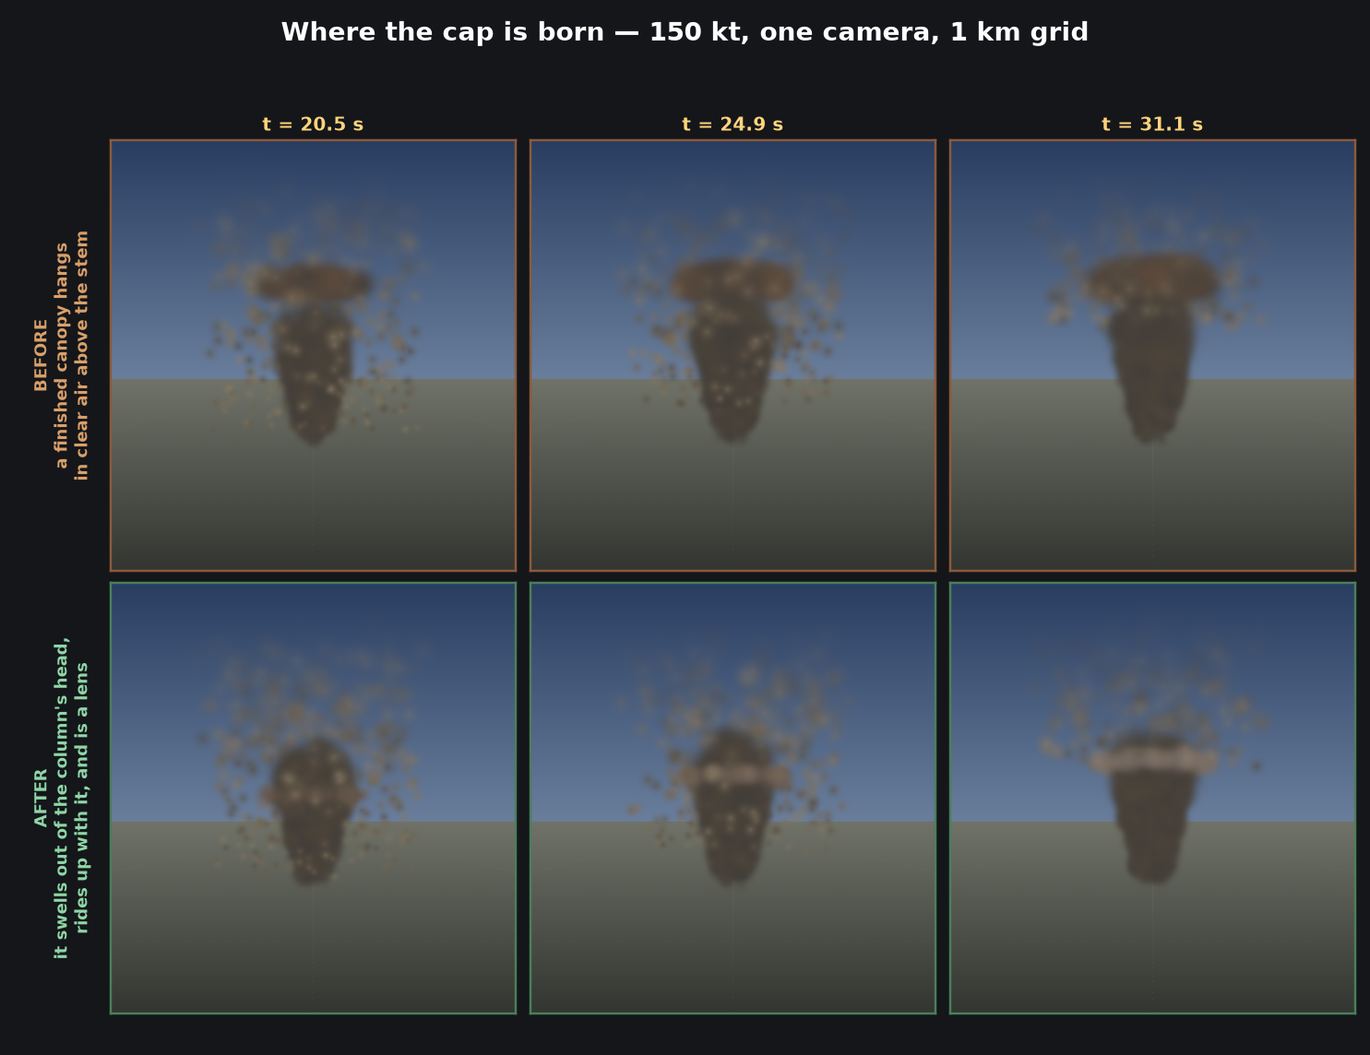
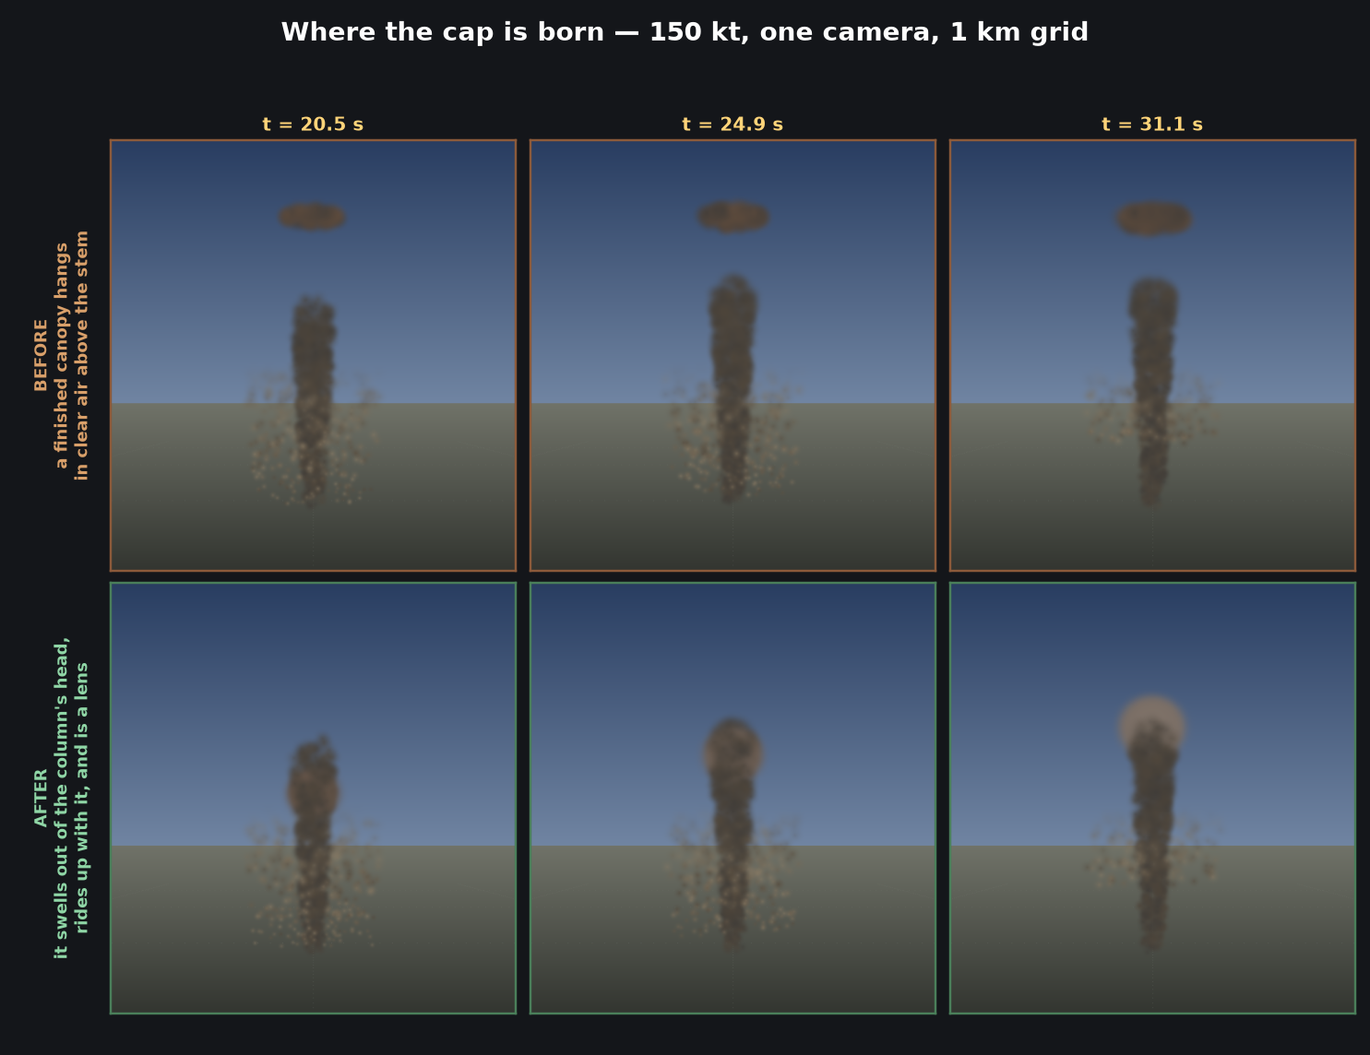
fix: scale the cloud with one number, so it is a mushroom again
The first report from a build that actually contained this work was that it did
not look like a mushroom. It did not, and the cause was here rather than in the
build: answering "the cloud is too tall" by squashing the height on its own,
twice, while the width kept a scale of its own.

At 150 kt that left a column 459 m across and 375 m tall - a stem wider than it
is tall, which is not a stem - under a canopy 1436 m wide on a 751 m cloud,
against the 0.54 the figures give for width over height. No arrangement of
particles reads as a mushroom from there.

CloudScale now moves cap, stem and height together, and CloudHeightScale is
gone. At 0.06 a 150 kt cloud is a 138 m column standing 392 m under a canopy
431 m wide and 392 m deep - 1.10 times wider than deep, which is what the 1945
photographs show - and 0.55 as wide as it is tall against the figures' 0.54. The
height ceiling stays, with its knee raised to 700 m so that everything to about
a megaton is drawn in proportion and the ceiling is only the guarantee that no
yield can put its canopy off the top of the screen.

The fireball's scale comes down with it, to hold the third of the canopy's width
that keeps it from being lost under the cloud.

Two tests pin the silhouette: the column is taller than it is wide, and the
drawn width-to-height ratio matches the one the figures give.

Claude-Session: https://claude.ai/code/session_016wLH3mDvfnwTvpbji9E1o4

Changed region(s): [[0.062, 0.1836, 0.9912, 0.4283], [0.062, 0.6425, 0.9912, 0.8566]]

diff --git a/src/MissileDisaster/Core/NuclearCloudDisplay.cs b/src/MissileDisaster/Core/NuclearCloudDisplay.cs
@@ -47,18 +47,22 @@ namespace MissileDisaster.Core
         /// Skylines is played at the player sees a column disappearing off the top of the screen
         /// rather than a mushroom.
         ///
-        /// It is applied to the cloud - cap, stem and height alike - so every proportion the
-        /// model was checked against the photographs for survives it unchanged.
+        /// It is applied to the cloud - cap, stem and height alike, one number for all three - so
+        /// every proportion the model was checked against the photographs for survives it. That
+        /// is not a nicety. Height is what runs off the top of a screen, so the temptation is to
+        /// squash the height alone; doing exactly that is what turned the effect into a pancake
+        /// on a lump, with a 150 kt column 459 m across and 375 m tall. A stem wider than it is
+        /// tall is not a stem, and no arrangement of particles reads as a mushroom from there.
+        /// If a cloud has to be shorter, this is the number to lower - it takes the width with
+        /// it, which is the point.
         ///
-        /// This is the number to change to make clouds larger or smaller across the board. At
-        /// 0.20 a 150 kt cloud stands 2.6 km, which fits in frame from a few kilometres back at
-        /// the height the game is normally played at; 0.30 is a taller cloud that starts to run
-        /// off the top of the screen.
+        /// At 0.06 a 150 kt cloud stands 783 m over a 431 m canopy, which is the shape the
+        /// figures give it and fits in frame at the zoom the game is played at.
         /// </summary>
-        public const float CloudScale = 0.20f;
+        public const float CloudScale = 0.06f;
 
         /// <summary>
-        /// The fireball gets its own, larger scale - two and a half times the cloud's.
+        /// The fireball gets its own, larger scale - nearly three times the cloud's.
         ///
         /// It is the smallest part of the effect and the only part judged against the buildings
         /// around it rather than against the cloud, so shrinking it in step with a cloud brought
@@ -68,7 +72,7 @@ namespace MissileDisaster.Core
         /// its share puts it at about a third of the canopy's width at every yield, against the
         /// tenth to a seventh it really is.
         /// </summary>
-        public const float FireballScale = 0.50f;
+        public const float FireballScale = 0.16f;
 
         /// <summary>
         /// The altitude the top of the screen is, near enough, at the zoom the game is played at.
@@ -82,23 +86,14 @@ namespace MissileDisaster.Core
         public const float ScreenTopAltitude = 1000f;
 
         /// <summary>
-        /// A further squash applied to the cloud's height alone, on top of CloudScale, and then
-        /// a soft ceiling at ScreenTopAltitude.
-        ///
-        /// Even at a fifth of its real size a cloud is a tall thing - the figures make one taller
-        /// than it is wide at every yield below a megaton, because that is what a real one is -
-        /// and height is what runs off the top of a screen. The squash brings the whole range
-        /// down; the ceiling then guarantees it, so that no yield, however absurd, can put its
-        /// canopy where the player cannot see it. Between the knee and the ceiling the height
-        /// still grows with the yield, so a Tsar Bomba still stands twice a Little Boy.
-        ///
-        /// This is the one place where a proportion checked against the photographs is knowingly
-        /// broken: the canopy comes out several times flatter than the real thing, because its
-        /// depth is measured down from the cloud top and the top is what moved. Set the squash to
-        /// 1 and the ceiling out of the way to have the cloud back in proportion.
+        /// Where the soft ceiling on the drawn height starts to bite. It sits high enough that
+        /// everything up to about a megaton is drawn in proportion and the ceiling is only a
+        /// safety net - a guarantee that no yield, however absurd, can put its canopy where the
+        /// player cannot see it. Above it the height is compressed while the width is not, so
+        /// the very largest clouds do come out wider than their share; that is the price of the
+        /// guarantee, and it is paid only by weapons nobody has ever built but Tsar Bomba.
         /// </summary>
-        public const float CloudHeightScale = 0.35f;
-        public const float CloudTopDrawnKnee = 400f;
+        public const float CloudTopDrawnKnee = 700f;
 
         // The tropopause: the lid the canopy spreads out under, in real metres, before the
         // scale. Through the troposphere the air gets colder with height, so a fireball that
@@ -172,7 +167,7 @@ namespace MissileDisaster.Core
             d.FireballSeconds = EffectCeiling.Soft(NuclearCloud.FireballSeconds(kt),
                 FireballSecondsMin, FireballSecondsKnee, FireballSecondsCeiling);
             d.CapRadius = capRadius * CloudScale;
-            d.CloudTop = EffectCeiling.Soft(cloudTop * CloudScale * CloudHeightScale,
+            d.CloudTop = EffectCeiling.Soft(cloudTop * CloudScale,
                 CloudTopDrawnKnee, ScreenTopAltitude);
             d.CapBase = d.CloudTop * baseFraction;
             d.CapDepth = d.CloudTop - d.CapBase;

diff --git a/tests/MissileDisaster.Core.Tests/NuclearCloudDisplayTests.cs b/tests/MissileDisaster.Core.Tests/NuclearCloudDisplayTests.cs
@@ -115,6 +115,34 @@ public class NuclearCloudDisplayTests
     }
 
     [Fact]
+    public void The_column_is_taller_than_it_is_wide()
+    {
+        // A stem wider than it is tall is not a stem, and no arrangement of particles reads as a
+        // mushroom from there. This is the check that squashing the height on its own broke: it
+        // left a 150 kt column 459 m across and 375 m tall, under a canopy three times too wide.
+        foreach (float kt in new[] { 15f, 150f, 1200f })
+        {
+            NuclearCloudDimensions d = NuclearCloudDisplay.For(kt);
+            Assert.True(d.CapBase > d.StemRadius * 2f * 1.3f,
+                $"{kt} kt: column {d.StemRadius * 2f:F0} m wide, {d.CapBase:F0} m tall");
+        }
+    }
+
+    [Fact]
+    public void The_cloud_keeps_the_proportions_the_figures_give_it()
+    {
+        // Width and height come down by one number, so the drawn shape is the real shape.
+        // Scaling them separately is what turned the effect into a pancake on a lump.
+        foreach (float kt in new[] { 15f, 22f, 150f })
+        {
+            NuclearCloudDimensions d = NuclearCloudDisplay.For(kt);
+            float drawn = d.CapRadius * 2f / d.CloudTop;
+            float real = NuclearCloud.CloudRadius(kt) * 2f / NuclearCloud.CloudTop(kt);
+            Assert.InRange(drawn / real, 0.9f, 1.15f);
+        }
+    }
+
+    [Fact]
     public void No_cloud_is_ever_drawn_above_the_top_of_the_screen()
     {
         // The height is what runs off the screen, so it is the one dimension with a hard

diff --git a/tools/effect-preview/fxlib.py b/tools/effect-preview/fxlib.py
@@ -46,11 +46,10 @@ def hard(v, lo, hi): return max(lo, min(hi, v))
 
 # ------------------------------------------------- Core/NuclearCloudDisplay.cs (new)
 
-CLOUD_SCALE = 0.20      # NuclearCloudDisplay.CloudScale - playability, not physics
-FIREBALL_SCALE = 0.50   # the fireball comes down less far than the cloud around it
-HEIGHT_SCALE = 0.35     # a further squash on the height alone
+CLOUD_SCALE = 0.06      # NuclearCloudDisplay.CloudScale - one number for width and height alike
+FIREBALL_SCALE = 0.16   # the fireball comes down less far than the cloud around it
 SCREEN_TOP = 1000.0     # ScreenTopAltitude - nothing is drawn above the top of the screen
-TOP_KNEE = 400.0
+TOP_KNEE = 700.0
 TROPOPAUSE = 11000.0    # real metres, before the scale
 NEW = dict(fb=(25.0, 3000.0, 7000.0), fbs=(0.8, 12.0, 20.0), cap=(200.0, 8000.0, 26000.0),
            top=(800.0, 12000.0, 30000.0), rise=(12.0, 40.0, 60.0))
@@ -73,7 +72,7 @@ def dimensions(kt, ceilings="new"):
         d["fireball"] *= FIREBALL_SCALE
         d["cap"] *= CLOUD_SCALE
         base_fraction = base / d["top"]
-        d["top"] = soft(d["top"] * CLOUD_SCALE * HEIGHT_SCALE, TOP_KNEE, SCREEN_TOP)
+        d["top"] = soft(d["top"] * CLOUD_SCALE, TOP_KNEE, SCREEN_TOP)
         d["base"] = d["top"] * base_fraction
     else:
         d = dict(

diff --git a/docs/HANDOVER.md b/docs/HANDOVER.md
@@ -1,45 +1,40 @@
 # Handover — nuclear effect work
 
-Branch `claude/mushroom-cloud-explosion-effects-anxonz`, 13 commits on top of `master` (`c8b7822`).
+Branch `claude/mushroom-cloud-explosion-effects-anxonz`, on top of `master` (`c8b7822`).
 Everything described here is pushed. Nothing in this work exists on `master`.
 
-## Read this first: the build in the game is not this build
+## The one thing this work got wrong, and how it was found
 
-The game log from the last session showed the mod loading correctly —
+For four rounds the game was running a DLL that did not contain the changes, so the reports coming
+back were about code that had never loaded. The log settled it: the mod was loading fine from the
+local Addons folder, but the `[MissileDisaster] build check` line that `Mod.OnEnabled` writes
+unconditionally as its first statement was absent.
 
-```
-No source files found: MissileDisaster            <- normal. A DLL mod has no .cs sources
-Loading ...\Addons\Mods\MissileDisaster\MissileDisaster.dll
-Assembly MissileDisaster, Version=1.0.0.0 loaded.
-```
+Once a correct build finally ran, the first real report was that it did not look like a mushroom.
+It did not, and the reason was in this work rather than in the build: the height had been squashed
+on its own, twice, to answer "the cloud is too tall". Width and height had separate scales, and a
+150 kt column came out **459 m across and 375 m tall** under a canopy three and a half times too
+wide for it. A stem wider than it is tall is not a stem.
 
-— but **no `[MissileDisaster] build check - ...` line**, which `Mod.OnEnabled` writes as its first
-statement, unconditionally. The DLL the game is running therefore predates `e85d401`.
+The fix was to collapse the two scales into one. `CloudScale` now moves cap, stem and height
+together, so the drawn shape is the shape the figures give it, and the height ceiling is a
+guarantee rather than a shaping tool. **If a cloud has to be smaller, lower `CloudScale` and let
+it take the width with it.** Two tests now pin the silhouette so this cannot come back.
 
-That matters because four rounds of tuning were done on reports from a build that did not contain
-them. Settle this before judging anything:
+## Checking which build is running
 
-```powershell
-cd <repo>
-git fetch origin
-git checkout claude/mushroom-cloud-explosion-effects-anxonz
-git pull
-git log --oneline -1          # expect f55952c or later
-
-# with Cities: Skylines fully closed - the DLL is locked while it runs
-.\build.ps1
-```
-
-Then in game: **Options → Mods → Missile Disaster → Build check**. Two lines:
+**Options → Mods → Missile Disaster → Build check**:
 
 ```
-150 kt draws: cloud top 751 m, cap 1440 m wide, fireball 408 m across, rise 31.1 s, screen top 1000 m
+150 kt draws: cloud top 781 m, cap 431 m wide, fireball 131 m across, rise 31.1 s, screen top 1000 m
 Loaded from: C:\...\Addons\Mods\MissileDisaster
 ```
 
-The numbers are computed by the running code, so they are a fingerprint: a cloud top near **751 m**
-is this build, **13245 m** is the original, and **no Build check group at all** is a DLL older than
-`f55952c`. The path line settles the case where a Workshop subscription shadows a local build.
+The numbers are computed by the running code, so they are a fingerprint: a cloud top near **781 m**
+is this build, **13245 m** is the original, and **no Build check group at all** is an older DLL. The
+path line settles the case where a Workshop subscription shadows a local build.
+
+Rebuild with Cities: Skylines fully closed — the DLL is locked while it runs.
 
 ### One more thing to rule out
 
@@ -54,10 +49,9 @@ that are taste rather than physics, and they are where to go for "bigger", "smal
 
 | constant | now | what it does |
 |---|---|---|
-| `CloudScale` | 0.20 | the whole cloud against its real size. Raise for a bigger strike |
-| `CloudHeightScale` | 0.35 | a further squash on the height alone, before the ceiling |
-| `ScreenTopAltitude` | 1000 | hard bound on the drawn height. **Also `ModConfig.MaxBurstAltitude`** — lowering it lowers the airburst ceiling too |
-| `FireballScale` | 0.50 | the fireball, which comes down less far than the cloud so it is not lost under it |
+| `CloudScale` | 0.06 | the whole cloud against its real size — **width and height alike**. Raise for a bigger strike, lower for a smaller one. Do not scale height on its own: that is what broke the mushroom shape once already |
+| `ScreenTopAltitude` | 1000 | soft bound on the drawn height, knee at 700. **Also `ModConfig.MaxBurstAltitude`** — lowering it lowers the airburst ceiling too |
+| `FireballScale` | 0.16 | the fireball, which comes down less far than the cloud so it is not lost under it |
 | `RiseCompression` | 12 | real seconds per drawn second. Lower is slower |
 | `CapLifetime*` in `NuclearMushroomFx` | 35–60 s | how long the canopy stands |
 
@@ -65,23 +59,24 @@ What these currently produce:
 
 | | cloud top | cap width | fireball | whole shot |
 |---|---|---|---|---|
-| Little Boy 15 kt | 461 m | 0.61 km | 162 m | 45 s |
-| 150 kt baseline | 751 m | 1.44 km | 408 m | 67 s |
-| B83 1.2 Mt | 869 m | 3.78 km | 938 m | 87 s |
-| Tsar Bomba 50 Mt | 952 m | 10.4 km | 4013 m | 93 s |
+| Little Boy 15 kt | 398 m | 184 m | 52 m | 45 s |
+| 150 kt baseline | 781 m | 431 m | 131 m | 67 s |
+| B83 1.2 Mt | 927 m | 1133 m | 300 m | 87 s |
+| Tsar Bomba 50 Mt | 987 m | 3119 m | 1284 m | 93 s |
 
-If the height is still wrong once a correct build is running, `ScreenTopAltitude` is the lever — but
-note it is shared with the airburst ceiling, so decouple them first if only the cloud should move.
+If the size is still wrong, **`CloudScale` is the lever** — it moves width and height together and
+so cannot break the silhouette. `ScreenTopAltitude` is a guarantee, not a shaping tool, and it is
+shared with the airburst ceiling; decouple them first if only the cloud should move.
 
 ## Verification: what is proven and what is not
 
 | | status |
 |---|---|
-| `Core/**` logic | **232 xUnit tests pass.** `dotnet test tests/MissileDisaster.Core.Tests/` |
+| `Core/**` logic | **234 xUnit tests pass.** `dotnet test tests/MissileDisaster.Core.Tests/` |
 | effect code compiles | **passes.** `dotnet build tools/compile-check/CompileCheck.csproj` |
 | `ExplosionFx`, `ImpactResolver`, `ModConfig`, `Mod` changes | inspected only — not in the compile check, which does not stub the Colossal API |
 | the members exist in Unity 5.6 | **not verified.** See below |
-| how any of it looks in game | **not verified.** Never ran |
+| how it looks in game | **partly.** One session with a correct build, which found the silhouette bug above. Everything since is unverified again |
 
 Three Unity members are used that were not used before this branch. If the real build fails, suspect
 these first:
@@ -119,10 +114,11 @@ narrative.
 4. **`de19d69`** — the canopy's base is the tropopause, or half the cloud height below it. That
    reproduces Ivy Mike's and Castle Bravo's measured cap bases and is why a 20 kt cap is a ball and
    a megaton cap a sheet.
-5. **`18fb3d4`, `bbce362`, `57cfbff`** — playability: the cloud brought down to a fifth, the height
-   squashed and then bounded at the altitude the mod already calls the top of the screen; the
-   fireball's own radius budget fixed and given a larger scale; the whole shot stretched from 26 s
-   to about a minute.
+5. **`18fb3d4`, `bbce362`, `57cfbff`** — playability: the cloud brought down in size and its height
+   bounded at the altitude the mod already calls the top of the screen; the fireball's own radius
+   budget fixed and given a scale of its own; the whole shot stretched from 26 s to about a minute.
+   The height was squashed independently of the width here, which is the mistake the next commit
+   undoes.
 6. **`2c35cfc`, `e85d401`, `f55952c`** — the tooling: a compile check that works without the game,
    and the build fingerprint in the log and on the options screen.
 
@@ -134,8 +130,7 @@ they were checked against.
 - **No low-level layer.** Both 1945 photographs show a broad sheet of cloud across the ground far
   wider than the column. The ground dust here is a skirt about twice the stem's width.
 - **No skirt or bell**, and **no true vortex rollover** — the canopy's rim only sags under gravity.
-- **The cap is far flatter than the real thing**, because its depth is measured down from a cloud
-  top that has been squashed for playability. A 10 Mt canopy comes out eighteen times wider than
-  deep where the figures say four. The width is untouched, so the yield still reads.
+- **The largest clouds are wider than their share**, because the height ceiling compresses them
+  while the width is untouched. Below about a megaton the drawn shape is the real shape.
 - **Particle budget**: a nuclear strike now holds up to 900 stem + 420 dust + 400 cap particles for
   as long as 93 s. `StemMaxParticles` in `NuclearMushroomFx` is the one to lower if it costs frames.

diff --git a/docs/effects/README.md b/docs/effects/README.md
@@ -130,26 +130,28 @@ figures alone had not:
 
 ## Playability: what is deliberately not to scale
 
-Three numbers in `NuclearCloudDisplay` are admissions rather than figures, and they are the only
+Two numbers in `NuclearCloudDisplay` are admissions rather than figures, and they are the only
 ones in the model that are:
 
-- **`CloudScale = 0.20`** — the cloud is drawn at a fifth of its real size. A real 150 kt cloud
-  stands 13.2 km, which from a game camera is a column leaving the top of the screen rather than
-  a mushroom. It is applied to cap, stem and height together, so every proportion checked
-  against the photographs survives it. Raise it for taller clouds; see `cloud-scale.png`.
-- **`CloudHeightScale = 0.35`, then a soft ceiling at `ScreenTopAltitude = 1000`** — the height
-  alone is squashed further and then bounded outright. Even at a fifth of its real size a cloud
-  is a tall thing, because the figures make one taller than it is wide at every yield below a
-  megaton, and height is what runs off the top of a screen. `ScreenTopAltitude` is not a figure
-  about clouds: it is the altitude the mod already refuses to detonate an airburst above
-  (`ModConfig.MaxBurstAltitude` is the same constant now, for the same reason), arrived at the
-  only way it can be, by looking at the game. Nothing is ever drawn over it, at any yield.
-  Under it the height still grows: 461 m at 15 kt to 952 m at 50 Mt.
+- **`CloudScale = 0.06`** — the cloud is drawn at 6% of its real size. A real 150 kt cloud stands
+  13.2 km, which from a game camera is a column leaving the top of the screen rather than a
+  mushroom. **One number scales cap, stem and height alike**, so the drawn shape is the real
+  shape. That is not a nicety: height is what runs off the screen, so the temptation is to squash
+  the height alone, and doing exactly that turned the effect into a pancake on a lump — a 150 kt
+  column 459 m across and 375 m tall, under a canopy three and a half times too wide. A stem
+  wider than it is tall is not a stem. If a cloud has to be shorter, lower this and let it take
+  the width with it.
+- **`ScreenTopAltitude = 1000`, with the knee at 700** — a soft ceiling on the drawn height, as a
+  guarantee rather than a shaping tool. It is not a figure about clouds: it is the altitude the
+  mod already refuses to detonate an airburst above (`ModConfig.MaxBurstAltitude` is the same
+  constant now, for the same reason), arrived at the only way it can be, by looking at the game.
+  The knee sits high enough that everything to about a megaton is drawn in proportion; above it
+  the height is compressed while the width is not, so the very largest clouds do come out wider
+  than their share. That is the price of the guarantee.
 
-  This is the one proportion checked against the photographs that is knowingly broken. The
-  canopy's depth is measured down from the cloud top, so squashing the top flattens the cap with
-  it: a 10 Mt canopy comes out eighteen times wider than deep where the figures say four. The
-  width is untouched, so the yield still reads — from the cap, not the column.
+At 150 kt this gives a column 138 m across and 392 m tall under a canopy 431 m wide and 392 m
+deep — 1.10 times wider than deep, which is what the 1945 photographs show — with the whole cloud
+0.55 as wide as it is tall against the figures' 0.54.
 - **`FireballScale = 0.50`** — the fireball comes down only half way, so it keeps two and a half
   times its share of a cloud that has been brought down to a fifth. At full size it would be
   nearly as wide as a compressed 50 Mt canopy; in step with the cloud it is a spark. At 0.50 it

diff --git a/README.md b/README.md
@@ -51,12 +51,11 @@ radioactive fallout that you can clean up with a dedicated decontamination facil
     ceiling it never reaches, so a B83, an Ivy Mike and a Tsar Bomba are three visibly different
     clouds instead of the same picture
   - **What is deliberately not to scale**, and the only such thing in the model: the cloud is
-    drawn at a fifth of its real size, and its height is squashed further and then bounded at
-    1 km — the altitude the mod already refuses to burst above, because that is where the top of
-    the screen is. No cloud is ever drawn over it, so a strike always fits in frame; under it the
-    height still grows with the yield. The fireball comes down only half way, so it is not lost
-    under the cloud, and the rise is compressed about twelve to one, a strike running about a
-    minute from flash to fading. Four named constants in `Core/NuclearCloudDisplay`.
+    drawn at 6% of its real size — one number for width and height alike, so the drawn shape is
+    the real shape — and bounded at 1 km, the altitude the mod already refuses to burst above,
+    because that is where the top of the screen is. The fireball comes down less far, so it is
+    not lost under the cloud, and the rise is compressed about twelve to one, a strike running
+    about a minute from flash to fading. Four named constants in `Core/NuclearCloudDisplay`.
     See [docs/effects](docs/effects) for renders of every stage, and for what was checked against
     the measured tests and the photographs
 - **Shock wave** — a blast front races out across the ground following Sedov–Taylor
@@ -129,12 +128,12 @@ question of whether the DLL the game is running is the one that was built.
 **Options → Mods → Missile Disaster** has a *Build check* group at the top showing two lines:
 
 ```
-150 kt draws: cloud top 751 m, cap 1440 m wide, fireball 408 m across, rise 31.1 s, screen top 1000 m
+150 kt draws: cloud top 781 m, cap 431 m wide, fireball 131 m across, rise 31.1 s, screen top 1000 m
 Loaded from: C:\Users\...\Addons\Mods\MissileDisaster
 ```
 
 The numbers are computed by the code that is running, not written down, so they are a
-fingerprint of the build: a cloud top of about **751 m** is a current build, **13245 m** is the
+fingerprint of the build: a cloud top of about **781 m** is a current build, **13245 m** is the
 original one. The path is where the game actually loaded the DLL from, which settles the case
 where a Steam Workshop subscription is shadowing a local build.
 
